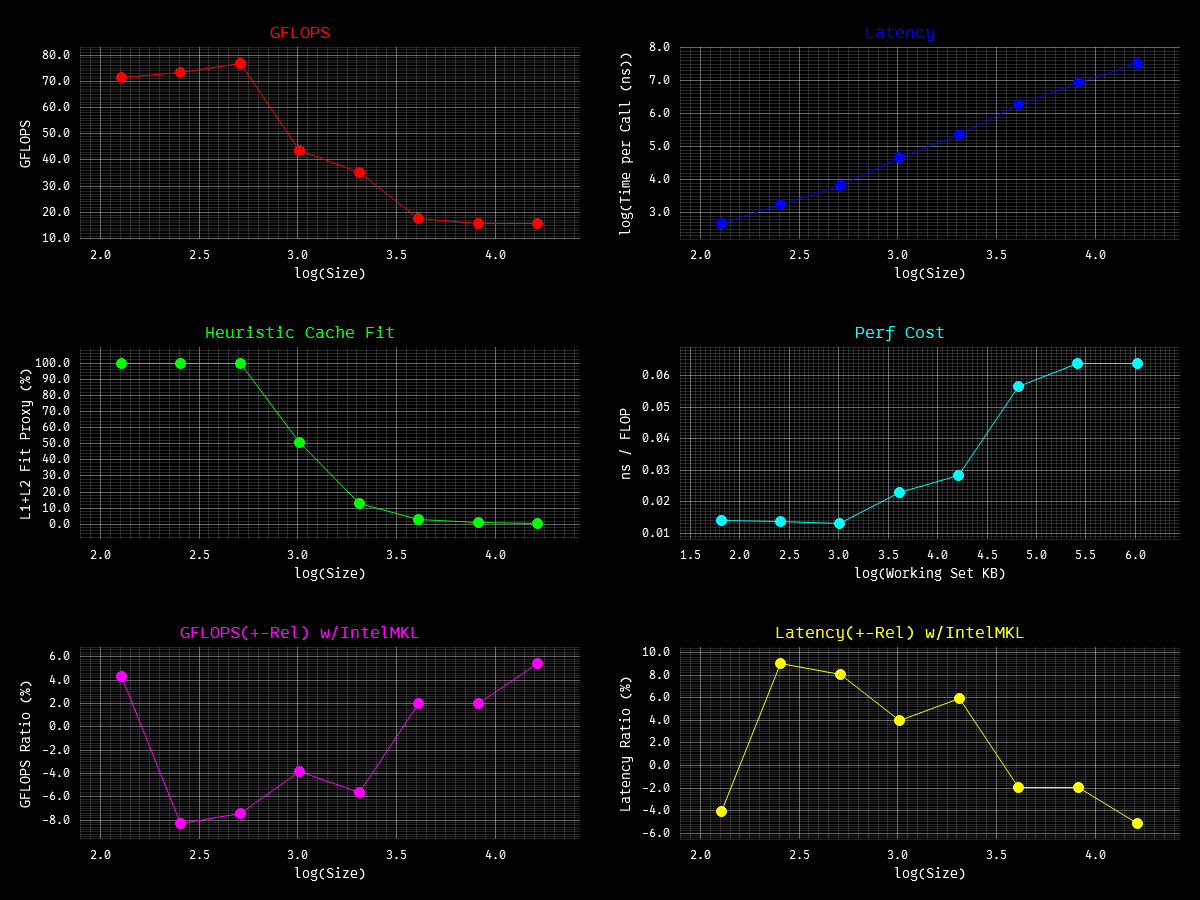
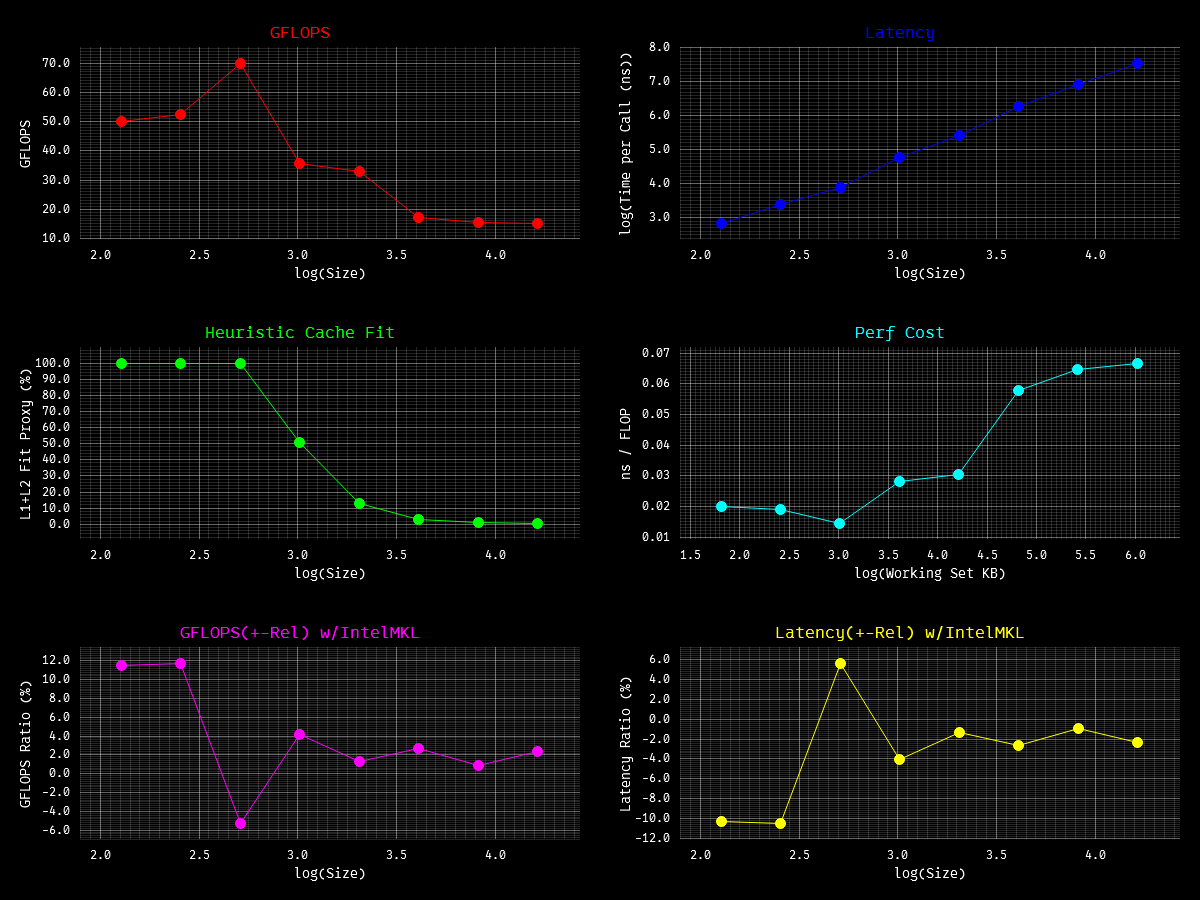
feat: tweaked `gemv_t` path *failed anyways*

diff --git a/src/lvl2.rs b/src/lvl2.rs
@@ -103,8 +103,8 @@ pub fn gemv(
                     let col4 = a_ptr.add((j + 4) * lda);
                     let col5 = a_ptr.add((j + 5) * lda);
 
-                    //_mm_prefetch(a_ptr.add((j + 5) * lda) as *const i8, _MM_HINT_NTA);
-                    //_mm_prefetch(a_ptr.add((j + 12) * lda) as *const i8, _MM_HINT_NTA);
+                    _mm_prefetch(a_ptr.add((j + 6) * lda) as *const i8, _MM_HINT_NTA);
+                    _mm_prefetch(a_ptr.add((j + 12) * lda) as *const i8, _MM_HINT_NTA);
 
                     let mut i = 0usize;
 
@@ -369,20 +369,23 @@ pub fn gemv(
             unsafe {
                 let mut j = 0usize;
 
-                // process 4 columns to maximize X vector reuse
-                while j + 3 < n {
+                // process 6 columns to maximize X vector reuse
+                while j + 5 < n {
                     let col0 = a_ptr.add(j * lda);
                     let col1 = a_ptr.add((j + 1) * lda);
                     let col2 = a_ptr.add((j + 2) * lda);
                     let col3 = a_ptr.add((j + 3) * lda);
+                    let col4 = a_ptr.add((j + 4) * lda);
+                    let col5 = a_ptr.add((j + 5) * lda);
+
                     // for prefetch
-                    let col4: *const f32 = a_ptr.add((j + 4) * lda);
-                    let col5: *const f32 = a_ptr.add((j + 5) * lda);
+                    let col6: *const f32 = a_ptr.add((j + 6) * lda);
+                    let col7 = a_ptr.add((j + 7) * lda);
 
-                    _mm_prefetch(a_ptr.add((j + 4) * lda) as *const i8, _MM_HINT_NTA);
-                    _mm_prefetch(a_ptr.add((j + 8) * lda) as *const i8, _MM_HINT_NTA);
+                    _mm_prefetch(a_ptr.add((j + 6) * lda) as *const i8, _MM_HINT_T0);
+                    _mm_prefetch(a_ptr.add((j + 7) * lda) as *const i8, _MM_HINT_T0);
 
-                    // set 4 acc from each column
+                    // set 2 acc from each column
                     let mut sum0_0 = _mm256_setzero_ps();
                     let mut sum0_1 = _mm256_setzero_ps();
 
@@ -395,40 +398,65 @@ pub fn gemv(
                     let mut sum3_0 = _mm256_setzero_ps();
                     let mut sum3_1 = _mm256_setzero_ps();
 
+                    let mut sum4_0 = _mm256_setzero_ps();
+                    let mut sum4_1 = _mm256_setzero_ps();
+
+                    let mut sum5_0 = _mm256_setzero_ps();
+                    let mut sum5_1 = _mm256_setzero_ps();
+
                     let mut i = 0usize;
 
-                    const PREFETCH_DIST: usize = 128;
-
-                    while i + 16 <= m {
+                    while i + 32 <= m {
                         _mm_prefetch(col0.add(i + PREFETCH_DIST) as *const i8, _MM_HINT_T0);
-                        _mm_prefetch(col1.add(i + PREFETCH_DIST) as *const i8, _MM_HINT_T0);
                         _mm_prefetch(col2.add(i + PREFETCH_DIST) as *const i8, _MM_HINT_T0);
-                        _mm_prefetch(col3.add(i + PREFETCH_DIST) as *const i8, _MM_HINT_T0);
+                        _mm_prefetch(col4.add(i + PREFETCH_DIST) as *const i8, _MM_HINT_T0);
 
-                        // load x once (16 floats)
+                        // load x's once (32 floats)
                         let x0 = _mm256_loadu_ps(x_ptr.add(i));
                         let x1 = _mm256_loadu_ps(x_ptr.add(i + 8));
+                        let x2 = _mm256_loadu_ps(x_ptr.add(i + 16));
+                        let x3 = _mm256_loadu_ps(x_ptr.add(i + 24));
 
                         // compute fma for col 0
                         sum0_0 = _mm256_fmadd_ps(_mm256_loadu_ps(col0.add(i)), x0, sum0_0);
                         sum0_1 = _mm256_fmadd_ps(_mm256_loadu_ps(col0.add(i + 8)), x1, sum0_1);
+                        sum0_0 = _mm256_fmadd_ps(_mm256_loadu_ps(col0.add(i + 16)), x2, sum0_0);
+                        sum0_1 = _mm256_fmadd_ps(_mm256_loadu_ps(col0.add(i + 24)), x3, sum0_1);
 
                         // compute fma for col 1
                         sum1_0 = _mm256_fmadd_ps(_mm256_loadu_ps(col1.add(i)), x0, sum1_0);
                         sum1_1 = _mm256_fmadd_ps(_mm256_loadu_ps(col1.add(i + 8)), x1, sum1_1);
+                        sum1_0 = _mm256_fmadd_ps(_mm256_loadu_ps(col1.add(i + 16)), x2, sum1_0);
+                        sum1_1 = _mm256_fmadd_ps(_mm256_loadu_ps(col1.add(i + 24)), x3, sum1_1);
 
                         //compute fma for col2
                         sum2_0 = _mm256_fmadd_ps(_mm256_loadu_ps(col2.add(i)), x0, sum2_0);
                         sum2_1 = _mm256_fmadd_ps(_mm256_loadu_ps(col2.add(i + 8)), x1, sum2_1);
+                        sum2_0 = _mm256_fmadd_ps(_mm256_loadu_ps(col2.add(i + 16)), x2, sum2_0);
+                        sum2_1 = _mm256_fmadd_ps(_mm256_loadu_ps(col2.add(i + 24)), x3, sum2_1);
 
                         //compute fma for col 3
                         sum3_0 = _mm256_fmadd_ps(_mm256_loadu_ps(col3.add(i)), x0, sum3_0);
                         sum3_1 = _mm256_fmadd_ps(_mm256_loadu_ps(col3.add(i + 8)), x1, sum3_1);
+                        sum3_0 = _mm256_fmadd_ps(_mm256_loadu_ps(col3.add(i + 16)), x2, sum3_0);
+                        sum3_1 = _mm256_fmadd_ps(_mm256_loadu_ps(col3.add(i + 24)), x3, sum3_1);
 
-                        _mm_prefetch(col4.add(i + PREFETCH_DIST) as *const i8, _MM_HINT_T0);
-                        _mm_prefetch(col5.add(i + PREFETCH_DIST) as *const i8, _MM_HINT_T0);
+                        //compute fma for col 4
+                        sum4_0 = _mm256_fmadd_ps(_mm256_loadu_ps(col4.add(i)), x0, sum4_0);
+                        sum4_1 = _mm256_fmadd_ps(_mm256_loadu_ps(col4.add(i + 8)), x1, sum4_1);
+                        sum4_0 = _mm256_fmadd_ps(_mm256_loadu_ps(col4.add(i + 16)), x2, sum4_0);
+                        sum4_1 = _mm256_fmadd_ps(_mm256_loadu_ps(col4.add(i + 24)), x3, sum4_1);
 
-                        i += 16;
+                        //compute fma for col 4
+                        sum5_0 = _mm256_fmadd_ps(_mm256_loadu_ps(col5.add(i)), x0, sum5_0);
+                        sum5_1 = _mm256_fmadd_ps(_mm256_loadu_ps(col5.add(i + 8)), x1, sum5_1);
+                        sum5_0 = _mm256_fmadd_ps(_mm256_loadu_ps(col5.add(i + 16)), x2, sum5_0);
+                        sum5_1 = _mm256_fmadd_ps(_mm256_loadu_ps(col5.add(i + 24)), x3, sum5_1);
+
+                        _mm_prefetch(col6.add(i + PREFETCH_DIST) as *const i8, _MM_HINT_T0);
+                        _mm_prefetch(col7.add(i + PREFETCH_DIST) as *const i8, _MM_HINT_T0);
+
+                        i += 32;
                     }
 
                     // if 8 rows remaining
@@ -438,6 +466,8 @@ pub fn gemv(
                         sum1_0 = _mm256_fmadd_ps(_mm256_loadu_ps(col1.add(i)), x0, sum1_0);
                         sum2_0 = _mm256_fmadd_ps(_mm256_loadu_ps(col2.add(i)), x0, sum2_0);
                         sum3_0 = _mm256_fmadd_ps(_mm256_loadu_ps(col3.add(i)), x0, sum3_0);
+                        sum4_0 = _mm256_fmadd_ps(_mm256_loadu_ps(col4.add(i)), x0, sum4_0);
+                        sum5_0 = _mm256_fmadd_ps(_mm256_loadu_ps(col5.add(i)), x0, sum5_0);
                         i += 8;
                     }
 
@@ -446,6 +476,8 @@ pub fn gemv(
                     let mut dot1 = reduce_f32(_mm256_add_ps(sum1_0, sum1_1));
                     let mut dot2 = reduce_f32(_mm256_add_ps(sum2_0, sum2_1));
                     let mut dot3 = reduce_f32(_mm256_add_ps(sum3_0, sum3_1));
+                    let mut dot4 = reduce_f32(_mm256_add_ps(sum4_0, sum4_1));
+                    let mut dot5 = reduce_f32(_mm256_add_ps(sum5_0, sum5_1));
 
                     // scalar fallback
                     while i < m {
@@ -454,6 +486,8 @@ pub fn gemv(
                         dot1 = x_val.mul_add(*col1.add(i), dot1);
                         dot2 = x_val.mul_add(*col2.add(i), dot2);
                         dot3 = x_val.mul_add(*col3.add(i), dot3);
+                        dot4 = x_val.mul_add(*col4.add(i), dot4);
+                        dot5 = x_val.mul_add(*col5.add(i), dot5);
                         i += 1;
                     }
 
@@ -462,18 +496,24 @@ pub fn gemv(
                     *y_ptr.add(j + 1) = alpha.mul_add(dot1, *y_ptr.add(j + 1));
                     *y_ptr.add(j + 2) = alpha.mul_add(dot2, *y_ptr.add(j + 2));
                     *y_ptr.add(j + 3) = alpha.mul_add(dot3, *y_ptr.add(j + 3));
+                    *y_ptr.add(j + 4) = alpha.mul_add(dot4, *y_ptr.add(j + 4));
+                    *y_ptr.add(j + 5) = alpha.mul_add(dot5, *y_ptr.add(j + 5));
 
-                    j += 4;
+                    j += 6;
                 }
 
-                // if n is not divisible by 4, process remaining columns; no reuse but still simd dot product
+                // if n is not divisible by 6
+                // process remaining columns; no reuse but still simd dot product
                 while j < n {
                     let col = a_ptr.add(j * lda);
                     let mut sum0 = _mm256_setzero_ps();
                     let mut sum1 = _mm256_setzero_ps();
-                    let mut i = 0usize;
+                    let mut sum2 = _mm256_setzero_ps();
+                    let mut sum3 = _mm256_setzero_ps();
 
-                    while i + 16 <= m {
+                    let mut i = 0usize;
+                    // do four cols of 8 (4x8=32) elements at a time, then reduce to scalar
+                    while i + 32 <= m {
                         sum0 = _mm256_fmadd_ps(
                             _mm256_loadu_ps(col.add(i)),
                             _mm256_loadu_ps(x_ptr.add(i)),
@@ -484,7 +524,17 @@ pub fn gemv(
                             _mm256_loadu_ps(x_ptr.add(i + 8)),
                             sum1,
                         );
-                        i += 16;
+                        sum2 = _mm256_fmadd_ps(
+                            _mm256_loadu_ps(col.add(i + 16)),
+                            _mm256_loadu_ps(x_ptr.add(i + 16)),
+                            sum2,
+                        );
+                        sum3 = _mm256_fmadd_ps(
+                            _mm256_loadu_ps(col.add(i + 24)),
+                            _mm256_loadu_ps(x_ptr.add(i + 24)),
+                            sum3,
+                        );
+                        i += 32;
                     }
 
                     while i + 8 <= m {
@@ -496,13 +546,15 @@ pub fn gemv(
                         i += 8;
                     }
 
-                    let mut dot_val = reduce_f32(_mm256_add_ps(sum0, sum1));
+                    let dot0 = _mm256_add_ps(sum0, sum1);
+                    let dot1 = _mm256_add_ps(sum2, sum3);
+                    let mut dot = reduce_f32(_mm256_add_ps(dot0, dot1));
                     while i < m {
-                        dot_val = (*col.add(i)).mul_add(*x_ptr.add(i), dot_val);
+                        dot = (*col.add(i)).mul_add(*x_ptr.add(i), dot);
                         i += 1;
                     }
 
-                    *y_ptr.add(j) = alpha.mul_add(dot_val, *y_ptr.add(j));
+                    *y_ptr.add(j) = alpha.mul_add(dot, *y_ptr.add(j));
                     j += 1;
                 }
             }
@@ -511,8 +563,8 @@ pub fn gemv(
                 for j in 0..n {
                     let col = a_ptr.add(j * lda);
 
-                    _mm_prefetch(a_ptr.add((j + 1) * lda) as *const i8, _MM_HINT_NTA);
-                    _mm_prefetch(a_ptr.add((j + 8) * lda) as *const i8, _MM_HINT_NTA);
+                    _mm_prefetch(a_ptr.add((j + 1) * lda) as *const i8, _MM_HINT_T0);
+                    _mm_prefetch(a_ptr.add((j + 8) * lda) as *const i8, _MM_HINT_T0);
 
                     // four accumulators for the dot product,
                     // we will reduce them at the end

diff --git a/bench/bencher.rs b/bench/bencher.rs
@@ -187,6 +187,12 @@ fn main() {
         kernel.split(',').collect()
     };
 
+    // pin core
+    let cores = core_affinity::get_core_ids().expect("Failed to get Core IDs");
+    println!("Available cores: {}", cores.len());
+    let core = cores[4];
+    core_affinity::set_for_current(core);
+
     println!("Heating up!!!");
     warmup(64, 2048);
 

diff --git a/README.md b/README.md
@@ -1,6 +1,6 @@
 Rookie attempt to rewriting **BLAS FORTRAN 77** and **Intel Math Library** Kernels in modern rust. `ONLY x86_64`
 
-> This will not cover all kernels for every single routine, but the most commonly used ones, (excluding complex
+> This will not cover all kernels for every single routine, but the most common & used ones, (excluding complex
 > type and only fp32) and I have **spammed** `_mm256*` intrinsics for all kernels, because I got I7 14650hx which does
 > not support AVX-512 :( and lastly, this project is purely for learning source, the code is well written & documented,
 > and I will add asm snippet [here](asm) for specific kernel & more refs for better understanding about rustc, x86, HPC
@@ -72,30 +72,30 @@ then copy the `.dll` or `.so` into the project root:
 **Gemv**
 ![plot](bench/plot/gemv.png)
 
-| Size  | Run      | GFLOPS             | Gflops_w/IntelMKL    | Latency_w/IntelMKL   | WSS Cache Fit        |
-|-------|----------|--------------------|----------------------|----------------------|----------------------|
-| 128   | 13675459 | 71.3201024193842   | 4.268020191150732%   | -4.093316611676632%  | 100%                 |
-| 256   | 3510447  | 73.23057736572352  | -8.319051043098323%  | 9.073914633026996%   | 100%                 |
-| 512   | 922166   | 76.94831744476373  | -7.46318740427445%   | 8.065101006752402%   | 100%                 |
-| 1024  | 131174   | 43.7821562444634   | -3.8411086982812837% | 3.99454345436347%    | 51.02239532619279%   |
-| 2048  | 26387    | 35.228949817595854 | -5.609158113425792%  | 5.942481284536169%   | 12.774256460263286%  |
-| 4096  | 3303     | 17.6391133859561   | 2.0294378917208444%  | -1.9890709325230373% | 3.195901439375457%   |
-| 8192  | 733      | 15.644653784477889 | 1.9995837742584672%  | -1.9603842489042462% | 0.7992678462477121%  |
-| 16384 | 183      | 15.630144864527491 | 5.459202667614173%   | -5.176601500411932%  | 0.19985354244217976% |
+| Size  | Run     | GFLOPS             | Gflops_w/IntelMKL    | Latency_w/IntelMKL   | WSS Cache Fit        |
+|-------|---------|--------------------|----------------------|----------------------|----------------------|
+| 128   | 9592770 | 50.02810554435449  | 11.460306781719968%  | -10.281962352897027% | 100%                 |
+| 256   | 2515526 | 52.47576673389795  | 11.761035161002729%  | -10.523377082236054% | 100%                 |
+| 512   | 839253  | 70.02976607182597  | -5.3315390582561895% | 5.631800712950261%   | 100%                 |
+| 1024  | 106891  | 35.676973157426175 | 4.1938623159051405%  | -4.025056968509155%  | 51.02239532619279%   |
+| 2048  | 24587   | 32.82542375623104  | 1.3216549031332763%  | -1.3044150378286188% | 12.774256460263286%  |
+| 4096  | 3245    | 17.327561789478366 | 2.722730325858451%   | -2.650562652707308%  | 3.195901439375457%   |
+| 8192  | 726     | 15.507406885801215 | 0.9235357377738176%  | -0.9150846044211005% | 0.7992678462477121%  |
+| 16384 | 176     | 14.984591873715768 | 2.416503026852364%   | -2.3594859768047205% | 0.19985354244217976% |
 
 **Gemv_T**
 ![plot](bench/plot/gemv_t.png)
 
-| Size  | Run      | GFLOPS             | Gflops_w/IntelMKL    | Latency_w/IntelMKL    | WSS Cache Fit        |
-|-------|----------|--------------------|----------------------|-----------------------|----------------------|
-| 128   | 10251107 | 53.461460619935536 | -18.20981427099827%  | 22.26405785571079%    | 100%                 |
-| 256   | 3208621  | 66.93424931951327  | -8.57786751447875%   | 9.382703379662736%    | 100%                 |
-| 512   | 833889   | 69.58217242331276  | -6.055586355580537%  | 6.445924904594098%    | 100%                 |
-| 1024  | 135292   | 45.15649762305524  | 0.4689591940686096%  | -0.4667702321497747%  | 51.02239532619279%   |
-| 2048  | 24781    | 33.083852283542804 | -8.49737797495192%   | 9.286485771550721%    | 12.774256460263286%  |
-| 4096  | 3255     | 17.378167168821662 | -0.0139636739858185% | 0.013965624100040343% | 3.195901439375457%   |
-| 8192  | 718      | 15.330904989137172 | 1.0321720280180475%  | -1.0216270790771311%  | 0.7992678462477121%  |
-| 16384 | 177      | 15.0682079956136   | -1.475670925019749%  | 1.4977731275862831%   | 0.19985354244217976% |
+| Size  | Run      | GFLOPS             | Gflops_w/IntelMKL     | Latency_w/IntelMKL   | WSS Cache Fit        |
+|-------|----------|--------------------|-----------------------|----------------------|----------------------|
+| 128   | 12431355 | 64.83186397626287  | 4.951541835633347%    | -4.717931484406455%  | 100%                 |
+| 256   | 3367237  | 70.2430660555927   | -0.35424637972961404% | 0.3555057459643894%  | 100%                 |
+| 512   | 889135   | 74.19204959696513  | 4.47785384973828%     | -4.285935903869547%  | 100%                 |
+| 1024  | 101606   | 33.913151070678374 | -2.2117876470827724%  | 2.2618141735738417%  | 51.02239532619279%   |
+| 2048  | 22591    | 30.16029870795536  | 3.94152759236202%     | -3.7920624062981676% | 12.774256460263286%  |
+| 4096  | 3205     | 17.110205966446628 | 2.599358044258381%    | -2.5335032243935576% | 3.195901439375457%   |
+| 8192  | 706      | 15.065026643291253 | -1.770903177956245%   | 1.8028295436376394%  | 0.7992678462477121%  |
+| 16384 | 178      | 15.19815951210807  | 3.717999075692144%    | -3.5847192472145526% | 0.19985354244217976% |
 
 **Gemm_F_F**
 ![plot](bench/plot/gemm_f_f.png)
